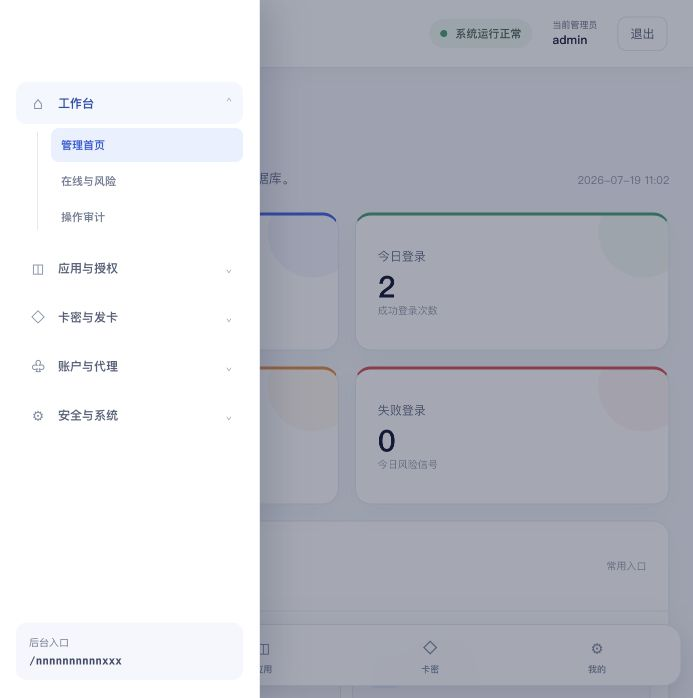
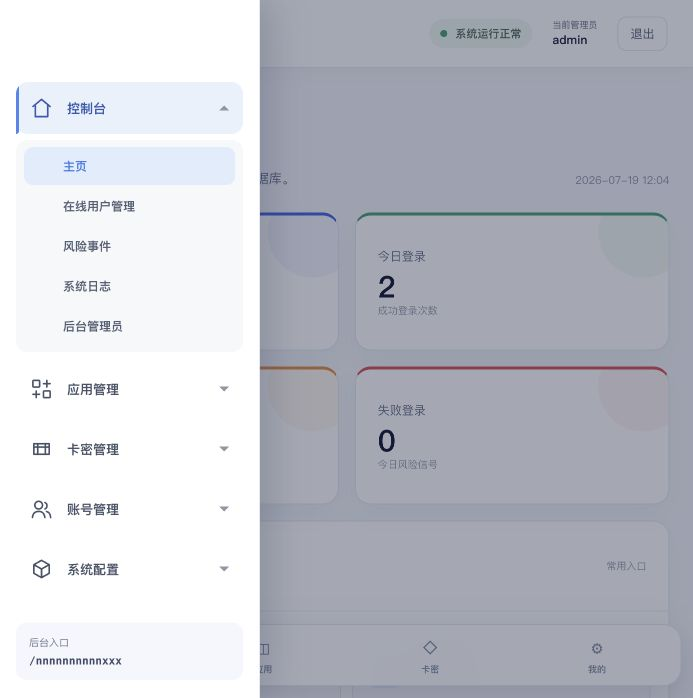
style: align admin navigation with BSPHP hierarchy

diff --git a/laravel/public/assets/css/mybsphp.css b/laravel/public/assets/css/mybsphp.css
@@ -965,23 +965,25 @@ button {
 
 .admin-sidebar nav {
     display: grid;
-    gap: 7px;
+    gap: 8px;
 }
 
 .nav-group {
+    position: relative;
     overflow: hidden;
-    border-radius: 11px;
+    border-radius: 12px;
 }
 
 .nav-group summary {
-    min-height: 42px;
+    position: relative;
+    min-height: 52px;
     display: grid;
-    grid-template-columns: 22px minmax(0, 1fr) auto;
+    grid-template-columns: 26px minmax(0, 1fr) 10px;
     align-items: center;
-    gap: 9px;
-    padding: 0 11px;
-    border-radius: 10px;
-    color: #56617a;
+    gap: 11px;
+    padding: 0 14px;
+    border-radius: 12px;
+    color: #485268;
     cursor: pointer;
     list-style: none;
     transition: color .18s ease, background-color .18s ease;
@@ -993,25 +995,42 @@ button {
 
 .nav-group summary:hover,
 .nav-group[open] summary {
-    color: #294fae;
-    background: #f4f7fe;
+    color: #345aaf;
+    background: #e9f1fc;
 }
 
-.nav-group summary span {
-    color: #8793aa;
-    font-size: 17px;
-    text-align: center;
+.nav-group[open] summary::before {
+    position: absolute;
+    top: 0;
+    bottom: 0;
+    left: 0;
+    width: 3px;
+    border-radius: 0 3px 3px 0;
+    background: #4a86ef;
+    content: "";
+}
+
+.nav-group summary svg {
+    width: 23px;
+    height: 23px;
+    fill: none;
+    stroke: currentColor;
+    stroke-linecap: round;
+    stroke-linejoin: round;
+    stroke-width: 1.7;
 }
 
 .nav-group summary strong {
-    font-size: 12px;
-    font-weight: 750;
+    font-size: 13px;
+    font-weight: 780;
 }
 
 .nav-group summary i {
-    color: #9ca6b8;
-    font-size: 11px;
-    font-style: normal;
+    width: 0;
+    height: 0;
+    border-top: 5px solid #8e96a5;
+    border-right: 5px solid transparent;
+    border-left: 5px solid transparent;
     transition: transform .18s ease;
 }
 
@@ -1020,29 +1039,22 @@ button {
 }
 
 .nav-children {
-    position: relative;
     display: grid;
     gap: 2px;
-    margin: 4px 0 6px 21px;
-    padding-left: 14px;
-}
-
-.nav-children::before {
-    position: absolute;
-    inset: 4px auto 4px 0;
-    width: 1px;
-    background: #e2e8f4;
-    content: "";
+    margin: 6px 0 3px;
+    padding: 7px 8px;
+    border-radius: 11px;
+    background: #f7f8fa;
 }
 
 .admin-sidebar .nav-children a {
-    min-height: 34px;
+    min-height: 38px;
     display: flex;
     align-items: center;
-    padding: 0 10px;
-    border-radius: 8px;
-    color: #737e95;
-    font-size: 11px;
+    padding: 0 12px 0 39px;
+    border-radius: 9px;
+    color: #535d73;
+    font-size: 12px;
     font-weight: 650;
 }
 
@@ -1052,8 +1064,8 @@ button {
 }
 
 .admin-sidebar .nav-children a.is-active {
-    color: #2f5cd5;
-    background: #eaf0ff;
+    color: #3978e7;
+    background: #e1ecfb;
 }
 
 .sidebar-foot {

diff --git a/laravel/resources/views/admin/dashboard.blade.php b/laravel/resources/views/admin/dashboard.blade.php
@@ -28,46 +28,82 @@
     <aside class="admin-sidebar" data-sidebar>
         <nav aria-label="管理后台导航">
             <details class="nav-group" open>
-                <summary><span>⌂</span><strong>工作台</strong><i>⌄</i></summary>
+                <summary>
+                    <svg viewBox="0 0 24 24" aria-hidden="true">
+                        <path d="M3 10.5 12 3l9 7.5"></path>
+                        <path d="M5.5 9.5V21h13V9.5"></path>
+                    </svg>
+                    <strong>控制台</strong><i aria-hidden="true"></i>
+                </summary>
                 <div class="nav-children">
-                    <a class="is-active" href="{{ route('admin.dashboard', ['adminPath' => $adminPath]) }}">管理首页</a>
-                    <a href="#risk">在线与风险</a>
-                    <a href="#audit">操作审计</a>
+                    <a class="is-active" href="{{ route('admin.dashboard', ['adminPath' => $adminPath]) }}">主页</a>
+                    <a href="#online">在线用户管理</a>
+                    <a href="#risk">风险事件</a>
+                    <a href="#audit">系统日志</a>
+                    <a href="#administrators">后台管理员</a>
                 </div>
             </details>
             <details class="nav-group">
-                <summary><span>◫</span><strong>应用与授权</strong><i>⌄</i></summary>
+                <summary>
+                    <svg viewBox="0 0 24 24" aria-hidden="true">
+                        <rect x="3" y="3" width="7" height="7" rx="1"></rect>
+                        <rect x="14" y="14" width="7" height="7" rx="1"></rect>
+                        <path d="M14 6.5h7M17.5 3v7M3 17.5h7M6.5 14v7"></path>
+                    </svg>
+                    <strong>应用管理</strong><i aria-hidden="true"></i>
+                </summary>
                 <div class="nav-children">
-                    <a href="#applications">应用管理</a>
-                    <a href="#applications">创建应用</a>
+                    <a href="#applications">软件管理</a>
+                    <a href="#applications">添加新软件</a>
                     <a href="#applications">授权协议配置</a>
+                    <a href="#accounts">软件用户批量维护</a>
                 </div>
             </details>
             <details class="nav-group">
-                <summary><span>◇</span><strong>卡密与发卡</strong><i>⌄</i></summary>
+                <summary>
+                    <svg viewBox="0 0 24 24" aria-hidden="true">
+                        <path d="M4 6.5h16v11H4z"></path>
+                        <path d="M8 6.5v11M16 6.5v11M4 10h16"></path>
+                    </svg>
+                    <strong>卡密管理</strong><i aria-hidden="true"></i>
+                </summary>
                 <div class="nav-children">
-                    <a href="#cards">卡密管理</a>
+                    <a href="#cards">卡密列表</a>
                     <a href="#cards">卡种与批次</a>
+                    <a href="#cards">卡密批量维护</a>
                     <a href="#cards">手动发卡</a>
                     <a href="#cards">发卡记录</a>
                 </div>
             </details>
             <details class="nav-group">
-                <summary><span>♧</span><strong>账户与代理</strong><i>⌄</i></summary>
+                <summary>
+                    <svg viewBox="0 0 24 24" aria-hidden="true">
+                        <circle cx="9" cy="8" r="4"></circle>
+                        <path d="M2.5 21c.4-4.3 2.7-6.5 6.5-6.5s6.1 2.2 6.5 6.5"></path>
+                        <path d="M15.5 5.2a3.7 3.7 0 0 1 0 6.8M17 14.5c2.8.6 4.3 2.8 4.5 6.5"></path>
+                    </svg>
+                    <strong>账号管理</strong><i aria-hidden="true"></i>
+                </summary>
                 <div class="nav-children">
-                    <a href="#accounts">用户账户</a>
-                    <a href="#agents">代理管理</a>
-                    <a href="#agents">代理等级与定价</a>
-                    <a href="#agents">余额流水</a>
+                    <a href="#accounts">用户账号管理</a>
+                    <a href="#agents">代理账号管理</a>
+                    <a href="#accounts">添加账号</a>
+                    <a href="#accounts">批量维护</a>
                 </div>
             </details>
             <details class="nav-group">
-                <summary><span>⚙</span><strong>安全与系统</strong><i>⌄</i></summary>
+                <summary>
+                    <svg viewBox="0 0 24 24" aria-hidden="true">
+                        <path d="m12 3 8 4.5v9L12 21l-8-4.5v-9z"></path>
+                        <path d="m4 7.5 8 4.5 8-4.5M12 12v9"></path>
+                    </svg>
+                    <strong>系统配置</strong><i aria-hidden="true"></i>
+                </summary>
                 <div class="nav-children">
-                    <a href="#administrators">后台管理员</a>
+                    <a href="#settings">系统信息设置</a>
+                    <a href="#settings">个性化设置</a>
                     <a href="#permissions">角色与权限</a>
                     <a href="#devices">设备解绑</a>
-                    <a href="#settings">系统设置</a>
                     <a href="#api">API 与 Legacy 配置</a>
                 </div>
             </details>

diff --git a/laravel/tests/Feature/AdminAuthenticationTest.php b/laravel/tests/Feature/AdminAuthenticationTest.php
@@ -71,10 +71,11 @@ class AdminAuthenticationTest extends TestCase
             ->assertSee('以下数据来自当前数据库')
             ->assertSee('admin')
             ->assertSee('系统运行正常')
-            ->assertSee('应用与授权')
-            ->assertSee('卡密与发卡')
-            ->assertSee('账户与代理')
-            ->assertSee('安全与系统')
+            ->assertSee('控制台')
+            ->assertSee('应用管理')
+            ->assertSee('卡密管理')
+            ->assertSee('账号管理')
+            ->assertSee('系统配置')
             ->assertDontSee('用户反馈')
             ->assertDontSee('邮件设置')
             ->assertDontSee('在线支付');

diff --git a/docs/W3_NAVIGATION_SCOPE.md b/docs/W3_NAVIGATION_SCOPE.md
@@ -25,40 +25,44 @@
 
 ## 2. 首版导航
 
-### 工作台
+### 控制台
 
-- 管理首页
-- 在线与风险
-- 操作审计
+- 主页
+- 在线用户管理
+- 风险事件
+- 系统日志
+- 后台管理员
 
-### 应用与授权
+### 应用管理
 
-- 应用管理
-- 创建应用
+- 软件管理
+- 添加新软件
 - 授权协议配置
+- 软件用户批量维护
 
-### 卡密与发卡
+### 卡密管理
 
-- 卡密管理
+- 卡密列表
 - 卡种与批次
+- 卡密批量维护
 - 手动发卡
 - 发卡记录
 
 普通卡密状态直接计算库存，不设置独立“库卡”模块。
 
-### 账户与代理
+### 账号管理
 
-- 用户账户
-- 代理管理
-- 代理等级与定价
-- 余额流水
+- 用户账号管理
+- 代理账号管理
+- 添加账号
+- 批量维护
 
-### 安全与系统
+### 系统配置
 
-- 后台管理员
+- 系统信息设置
+- 个性化设置
 - 角色与权限
 - 设备解绑
-- 系统设置
 - API 与 Legacy 配置
 
 ## 3. 首版隐藏项
@@ -88,6 +92,6 @@
 
 - W3-2～W3-6：角色、权限和菜单可见性基础。
 - W3-8：后台管理员和角色权限页面。
-- W4：应用与授权菜单接入真实页面。
-- W5：卡密与发卡菜单接入真实页面。
-- W7/W10：用户账户与代理菜单接入真实页面。
+- W4：应用管理菜单接入真实页面。
+- W5：卡密管理菜单接入真实页面。
+- W7/W10：账号管理菜单接入真实页面。

diff --git a/docs/logs/W3-2.md b/docs/logs/W3-2.md
@@ -15,7 +15,8 @@
 - 创建 `super_admin`、`admin` 两个安装必需系统角色。
 - 迁移现有管理员的旧 `role` 值，并在新安装事务内绑定超级管理员角色。
 - 新增 Role、Permission 关系模型和管理员角色/权限查询。
-- 后台侧栏改为五个一级分类和可折叠二级菜单。
+- 后台侧栏改为控制台、应用管理、卡密管理、账号管理、系统配置五个一级分类，
+  每组使用可折叠二级菜单。
 
 ## UI 范围
 
@@ -31,14 +32,14 @@
 - 复合主键拒绝重复角色分配。
 - 删除权限后关联记录按外键清理。
 - 当前开发库现有 `admin` 已关联 `super_admin`。
-- PHPUnit：31 tests / 184 assertions。
+- PHPUnit：31 tests / 185 assertions。
 - PHPStan：0 错误。
 - Pint：通过。
 
 ## 浏览器验收
 
 - 693px 抽屉显示五个一级分类。
-- 工作台展开后显示管理首页、在线与风险、操作审计。
+- 控制台展开后显示主页、在线用户管理、风险事件、系统日志、后台管理员。
 - 页面无横向溢出。
 - 截图：[`W3-2-navigation-responsive.jpg`](../assets/qa/W3-2-navigation-responsive.jpg)。
 

diff --git a/laravel/README.md b/laravel/README.md
@@ -46,7 +46,7 @@ cp .env.example .env
 /opt/homebrew/opt/php@8.3/bin/php artisan test
 ```
 
-当前验收基线：31 tests / 184 assertions，PHPStan 0 错误。
+当前验收基线：31 tests / 185 assertions，PHPStan 0 错误。
 
 ## 安装状态
 
